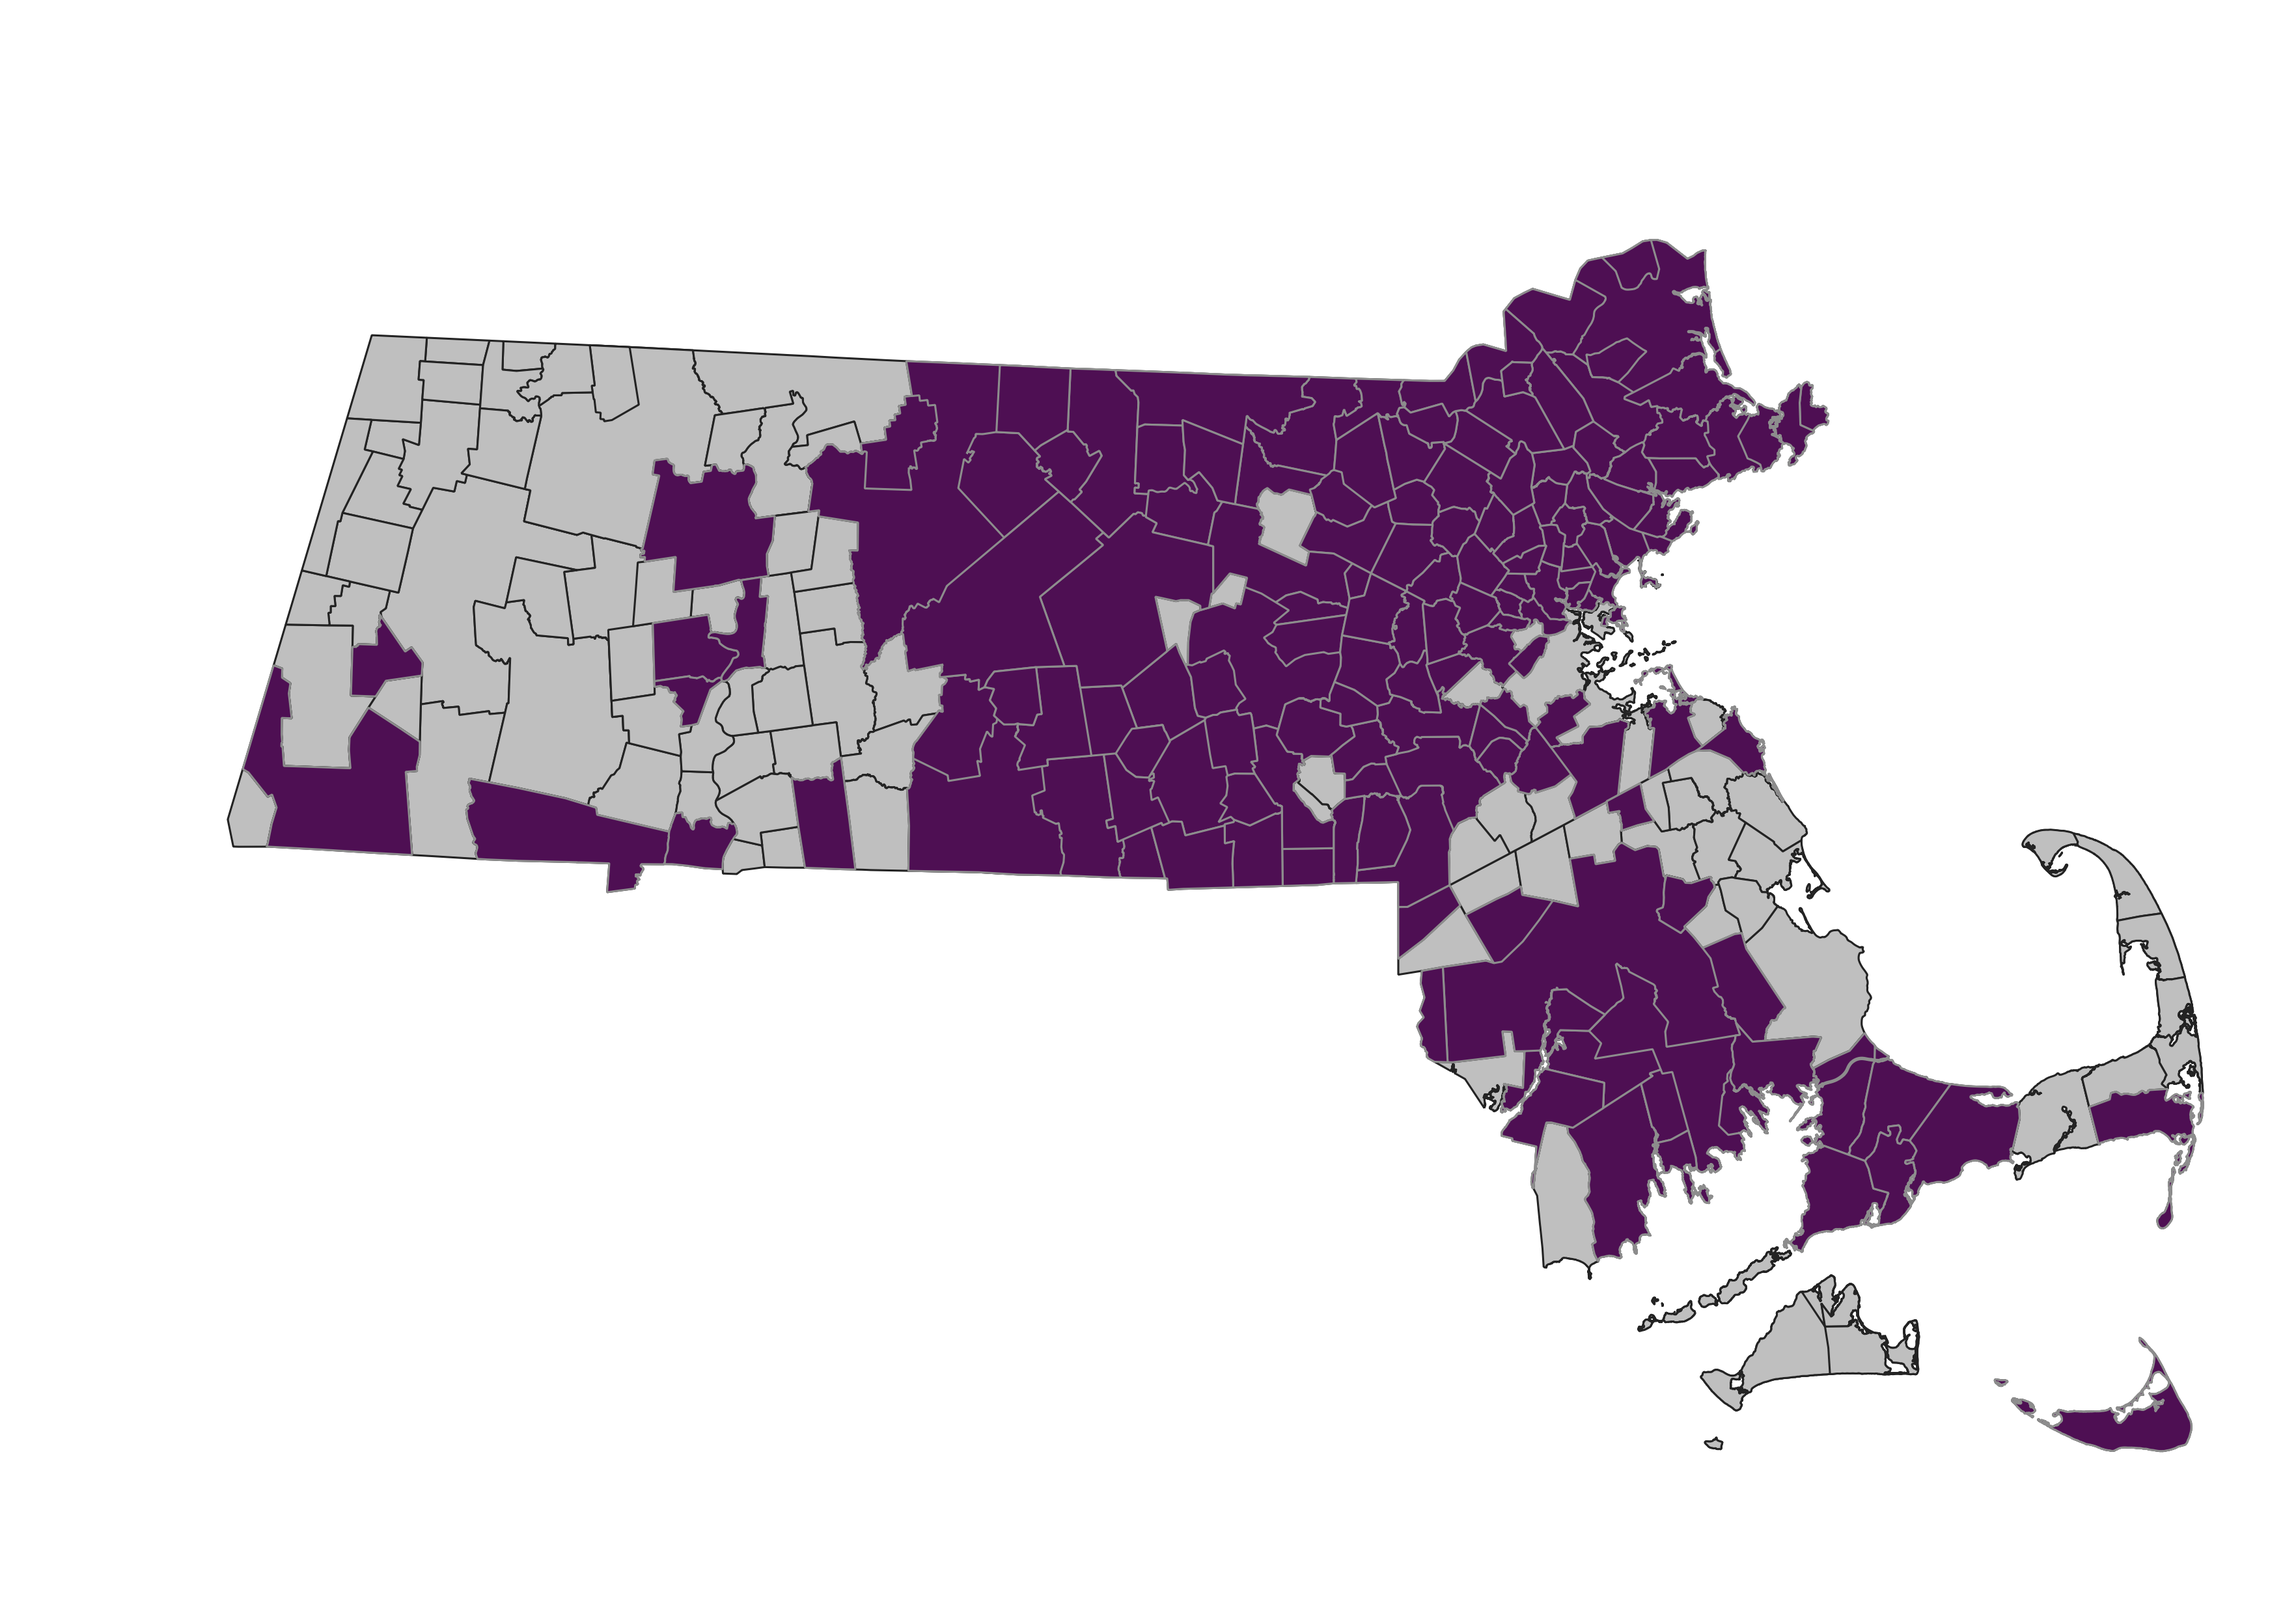
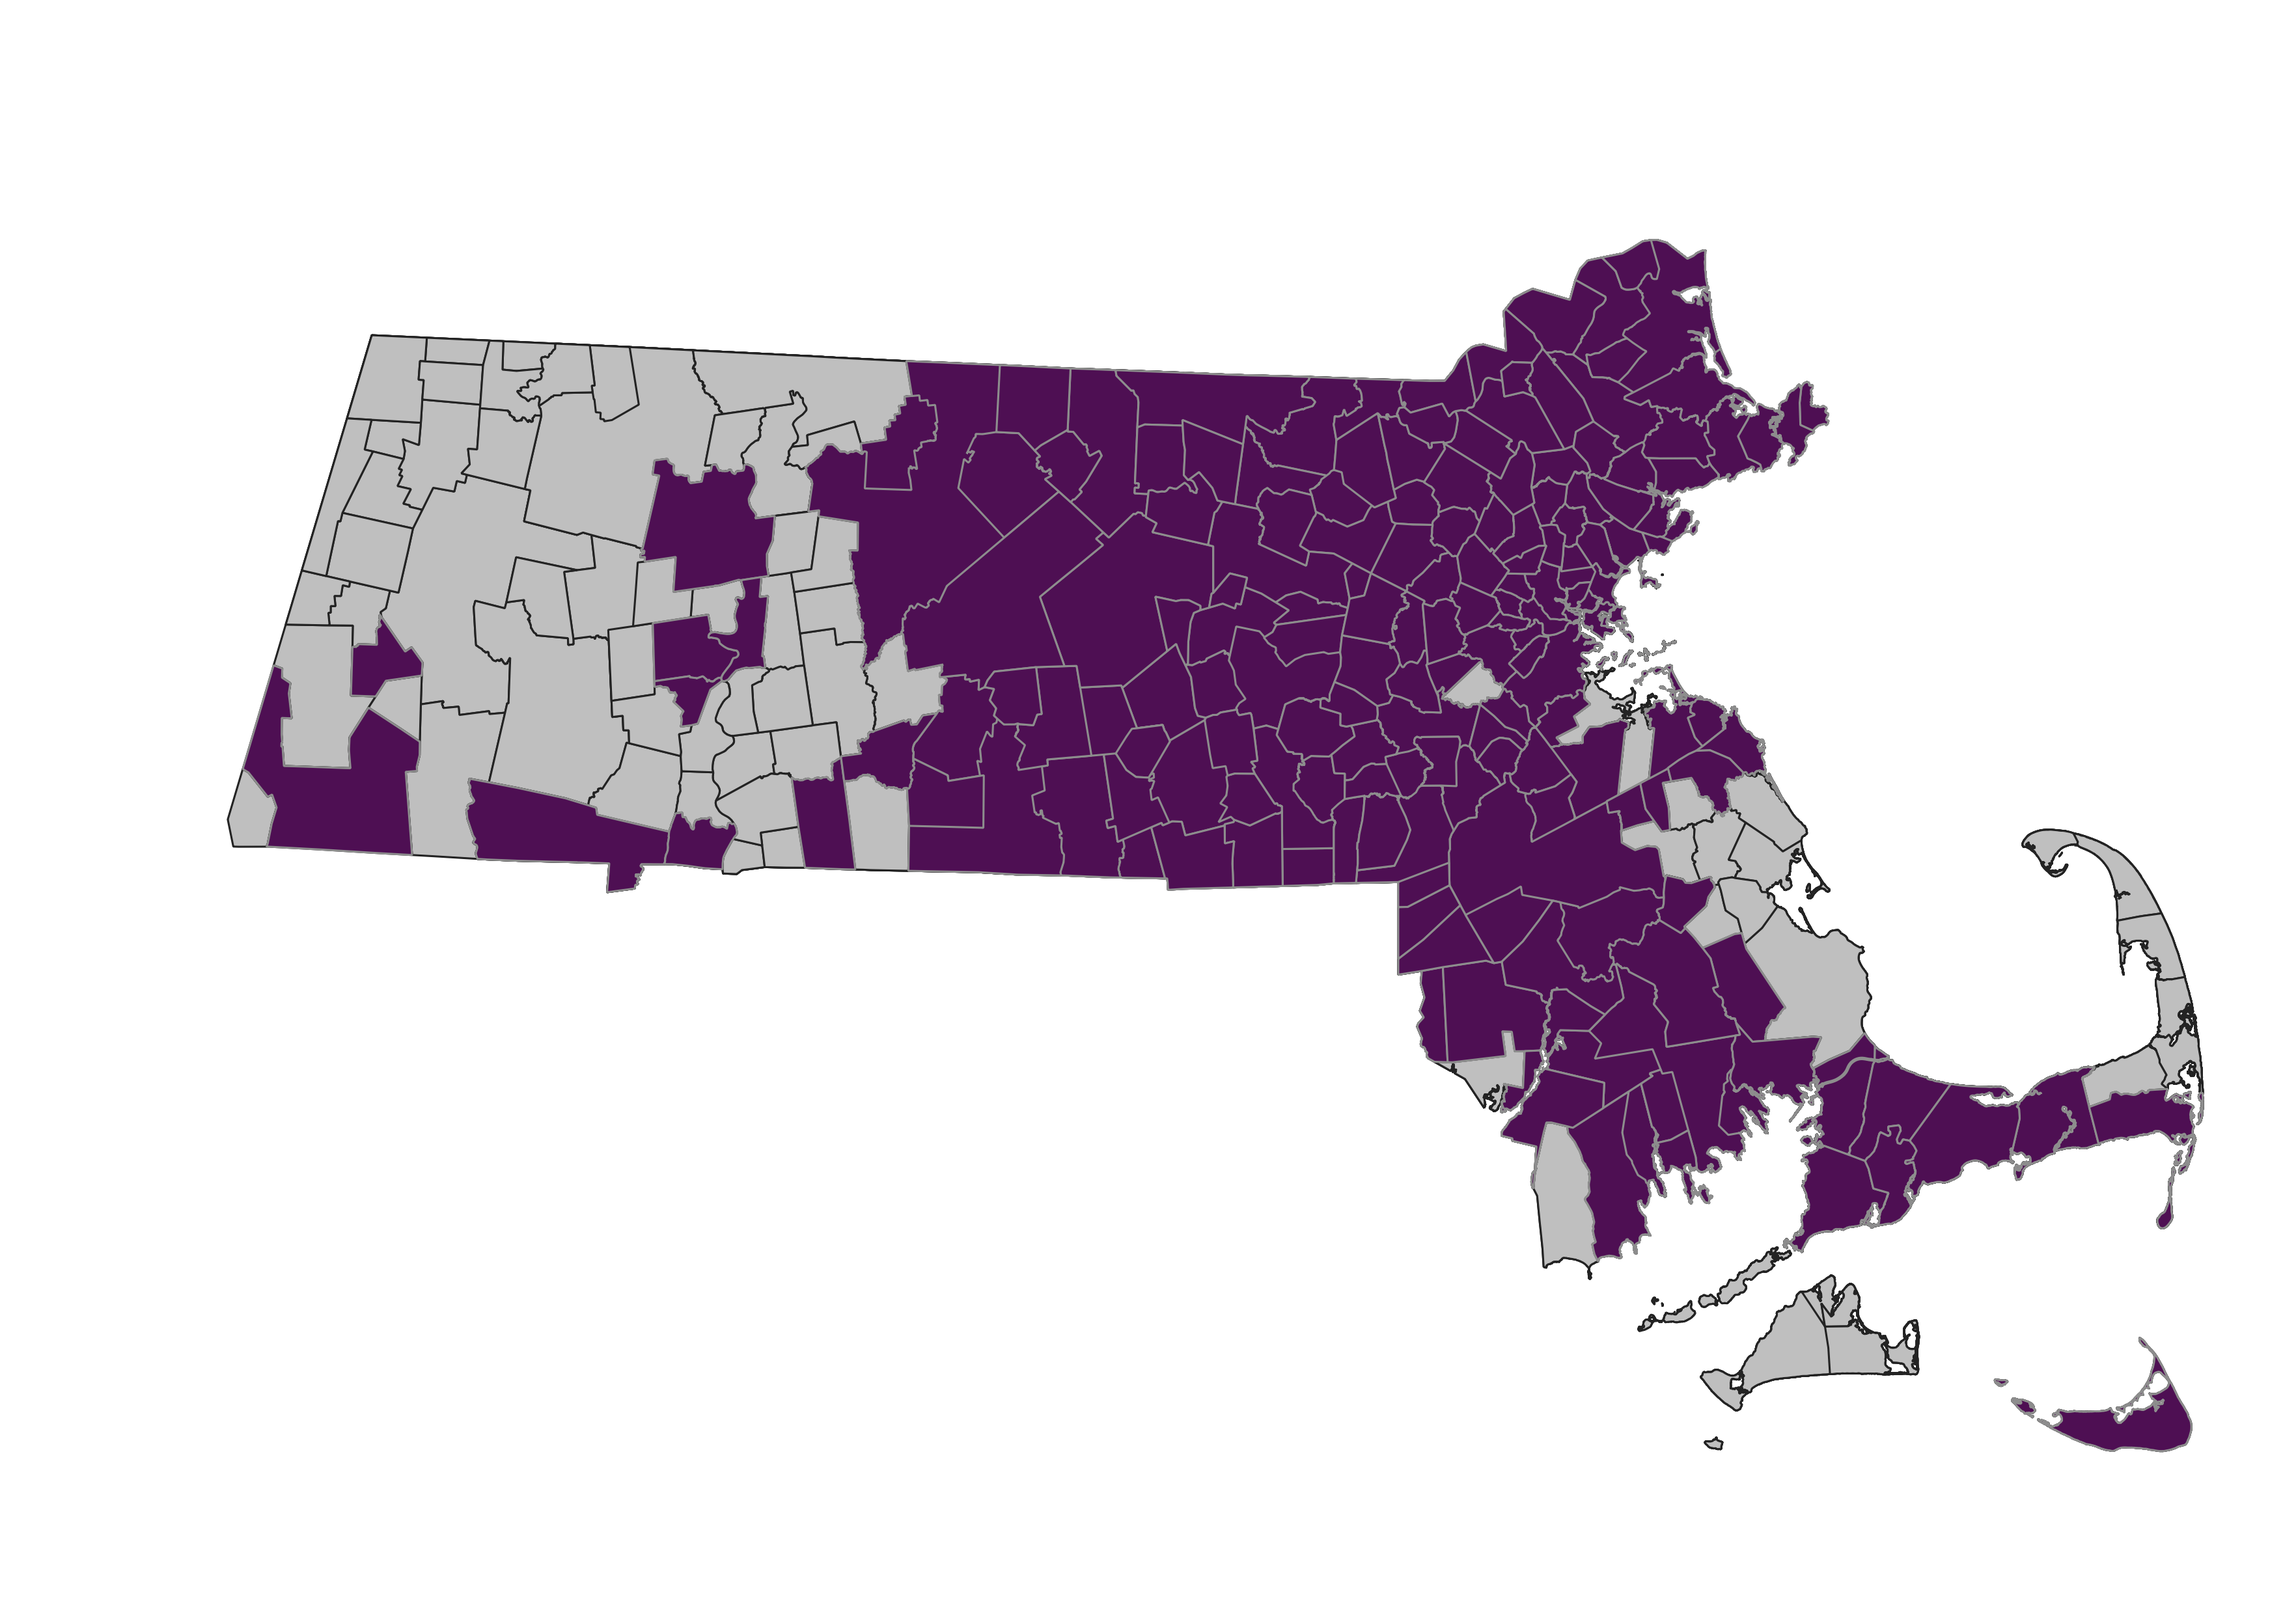
Update map and numbers

diff --git a/index.html b/index.html
@@ -1,6 +1,7 @@
 <!doctype html>
 <html class="no-js" lang="en">
 
+        
 <head>
     <meta charset="utf-8">
     
@@ -36,6 +37,7 @@
     
     <!--====== Style CSS ======-->
     <link rel="stylesheet" href="assets/css/style.css">
+
     
 </head>
 
@@ -102,9 +104,14 @@
                                     </li>
                                 </ul>
                             </div> <!-- navbar collapse -->
-                            
+                            <div class="navbar-btn d-none d-sm-inline-block">
+                                <a class="main-btn mr-3" href="https://app.litix.ai">Sign In</a>
+                            </div>
                             <div class="navbar-btn d-none d-sm-inline-block">
                                 <a class="main-btn" data-scroll-nav="0" href="https://calendly.com/mikearxed/building-community-around-negotiations?month=2024-07">Book a Demo</a>
+                            </div>
+                            <div class="navbar-btn d-none d-sm-inline-block">
+                                <a class="main-btn ml-3" href="faq.html">FAQ</a>
                             </div>
                         </nav> <!-- navbar -->
                     </div>
@@ -112,7 +119,7 @@
             </div> <!-- container -->
         </div> <!-- navbar area -->
         
-        <div id="home" class="header-hero bg_cover d-lg-flex align-items-center" style="background-image: url(assets/images/header-hero.jpg)">
+        <div id="home" class="header-hero bg_cover d-lg-flex align-items-center" >
             <div class="container">
                 <div class="row">
                     <div class = 'col-lg-12'>
@@ -269,7 +276,7 @@
                                             <span class="shape-2"></span>
                                         </div>
                                         <div class="counter-content media-body">
-                                            <span class="counter-count"><span class="counter">160</span>+</span>
+                                            <span class="counter-count"><span class="counter">200</span>+</span>
                                             <p class="text">ArxEd Partners</p>
                                         </div>
                                     </div> <!-- single counter -->
@@ -281,7 +288,7 @@
                                             <span class="shape-2"></span>
                                         </div>
                                         <div class="counter-content media-body">
-                                            <span class="counter-count"><span class="counter">120</span></span>
+                                            <span class="counter-count"><span class="counter">150</span>+</span>
                                           <p class="text">LITIX Partners</p>
                                         </div>
                                     </div> <!-- single counter -->
@@ -293,7 +300,7 @@
                                             <span class="shape-2"></span>
                                         </div>
                                         <div class="counter-content media-body">
-                                            <span class="counter-count"><span class="counter">100,000</span>+</span>
+                                            <span class="counter-count"><span class="counter">250,000</span>+</span>
                                             <p class="text">Data Points</p>
                                         </div>
                                     </div> <!-- single counter -->
@@ -1327,6 +1334,7 @@
     
     <!--====== Main js ======-->
     <script src="assets/js/main.js"></script>
+
     
 </body>
 
